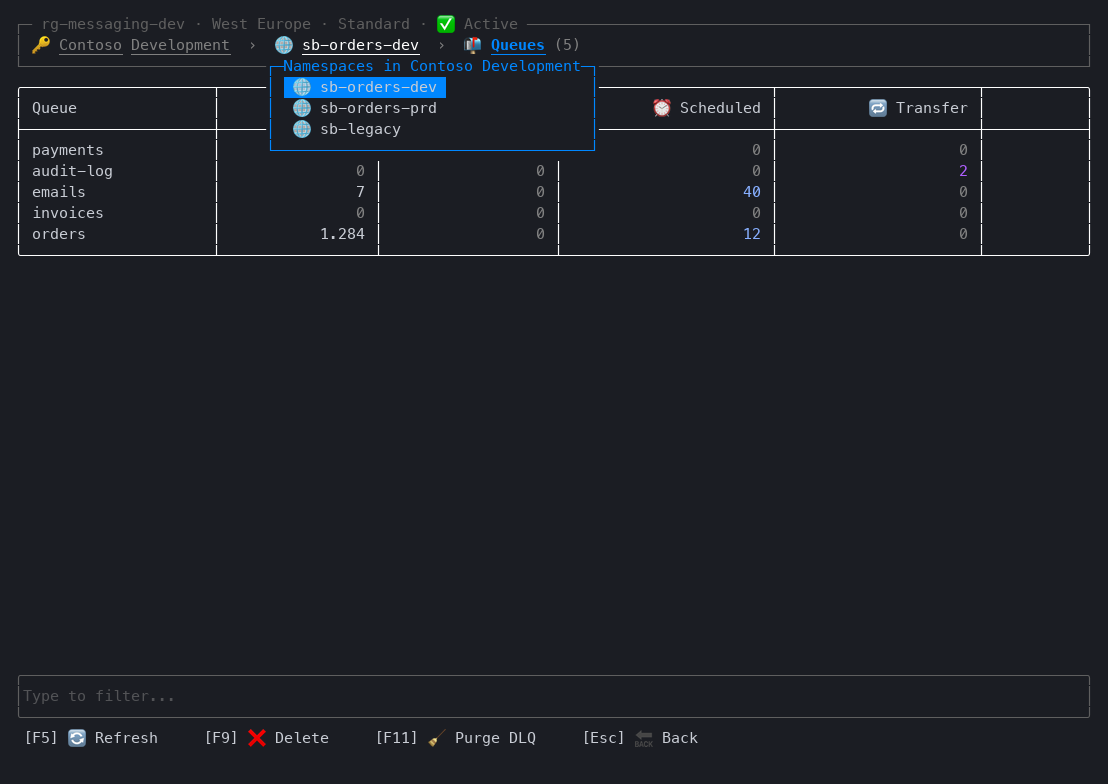
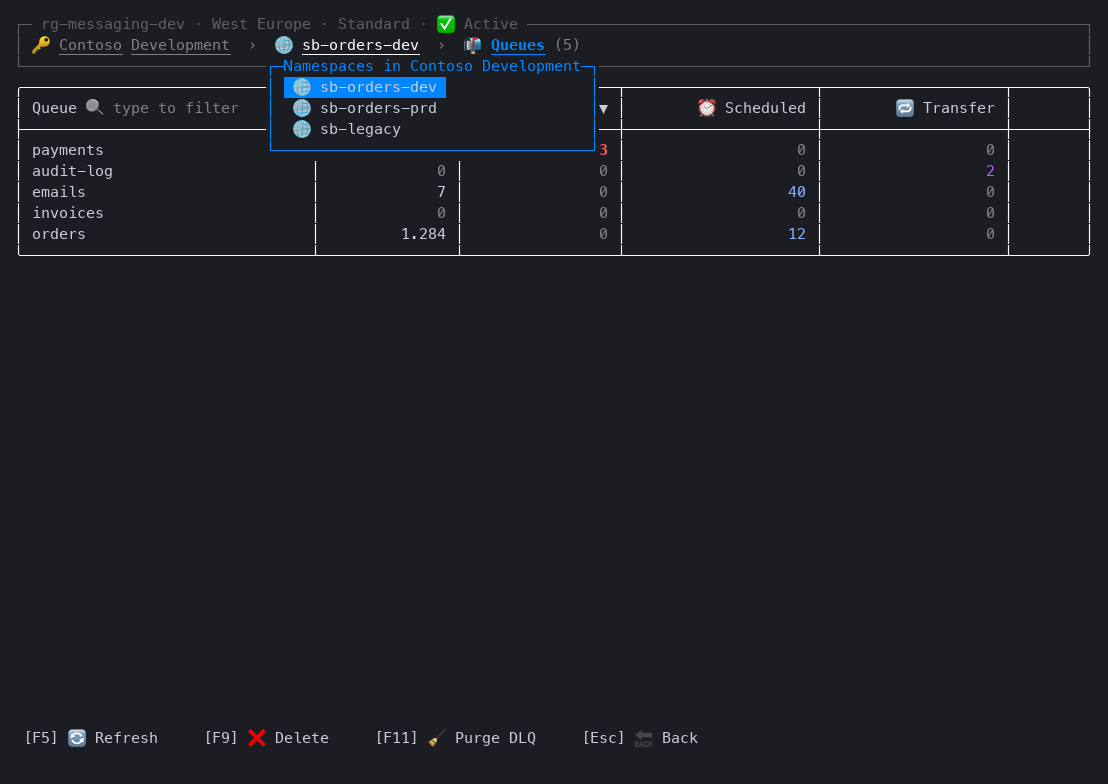
feat(ui): show the filter in the name column header
- Filter box under each grid removed (3 lines); typing in the table still filters
- First column header shows 🔍 hint, or the typed filter in accent
- Queues, topics, all subscriptions, connection page subscription list
- Drop PageSizeRoundedTableWithFilter; screenshots regenerated
- Fixes #39

diff --git a/Components/FullscreenLayout.cs b/Components/FullscreenLayout.cs
@@ -18,9 +18,6 @@ public static class FullscreenLayout
     /// <summary><c>SpectreTable</c> with <c>TableBorder.Simple</c> — top + header + separator + bottom = 4 lines.</summary>
     public const int SimpleTableChrome = 4;
 
-    /// <summary>A footer <c>TextInput</c> (default Rounded border, no outer padder) — 3 lines.</summary>
-    public const int FooterTextInput = 3;
-
     /// <summary>Footer button row wrapped in <c>Padder(1,0,0,0)</c> + <c>Columns</c> — 1 line.</summary>
     public const int FooterButtons = 1;
 
@@ -30,17 +27,10 @@ public static class FullscreenLayout
     /// subtracts it from the FlexBox height (<c>terminalHeight - 1</c>) and floors at 5.
     /// </summary>
     /// <param name="chromeLines">Sum of every non-table element's height — e.g.
-    /// <c>Header + CountRow + RoundedTableChrome + FooterTextInput + FooterButtons</c>.
+    /// <c>Header + RoundedTableChrome + FooterButtons</c>.
     /// Include the table's border chrome; the result is the number of data rows.</param>
     public static int PageSize(int terminalHeight, int chromeLines)
         => Math.Max(5, terminalHeight - 1 - chromeLines);
-
-    /// <summary>
-    /// PageSize for a page with a <c>TableBorder.Rounded</c> table and a filter <c>TextInput</c>
-    /// in the footer; the count is in the header. Chrome: Header + RoundedTableChrome + FooterTextInput + FooterButtons = 11.
-    /// </summary>
-    public static int PageSizeRoundedTableWithFilter(int terminalHeight)
-        => PageSize(terminalHeight, Header + RoundedTableChrome + FooterTextInput + FooterButtons);
 
     /// <summary>
     /// PageSize for a page with a <c>TableBorder.Rounded</c> table and only a button bar footer.

diff --git a/tests/ServiceBusConsole.Tests/QueueListPageTests.cs b/tests/ServiceBusConsole.Tests/QueueListPageTests.cs
@@ -53,6 +53,7 @@ public sealed class QueueListPageTests
         await terminal.TypeAsync("pay", Ct);
 
         var frame = await terminal.WaitForTextAsync("Queues (1 of 3)", AppHarness.Timeout, Ct);
+        frame.GetLine(RowOf(frame, "Queue ")).ShouldContain("🔍 pay");
         frame.ContainsText("payments").ShouldBeTrue();
         frame.ContainsText("orders").ShouldBeFalse();
     }
@@ -178,25 +179,4 @@ public sealed class QueueListPageTests
         await terminal.WaitForTextAsync("Delete queue 'payments'?", AppHarness.Timeout, Ct);
     }
 
-    [Fact]
-    public async Task FilterBox_IsNotStyledFocused_WhenTheTableHasFocus()
-    {
-        await using var terminal = await WithQueues().OpenQueuesAsync();
-        await terminal.WaitForTextAsync("Queues (3)", AppHarness.Timeout, Ct);
-
-        // The filter is the first focusable element while the queues load; once the table takes focus,
-        // its border must go back to the unfocused color.
-        await AppHarness.WaitForTableFocusAsync(terminal);
-        await Task.Delay(300, Ct);
-        FilterBorder(terminal.CurrentFrame).ShouldNotBe(Spectre.Console.Color.Yellow);
-    }
-
-    private static Spectre.Console.Color? FilterBorder(TerminalFrame frame)
-    {
-        for (var y = frame.Height - 1; y >= 0; y--)
-        {
-            if (frame[0, y].Text == "╭") return frame[0, y].Style?.Foreground;
-        }
-        return null;
-    }
 }

diff --git a/Theme.cs b/Theme.cs
@@ -43,6 +43,7 @@ public static class Icons
     public const string Locked = "🔒";
     public const string Unlocked = "🔓";
     public const string Received = "❗";
+    public const string Filter = "🔍";
     public const string Refresh = "🔄";
     public const string Delete = "❌";
     public const string Purge = "🧹";
